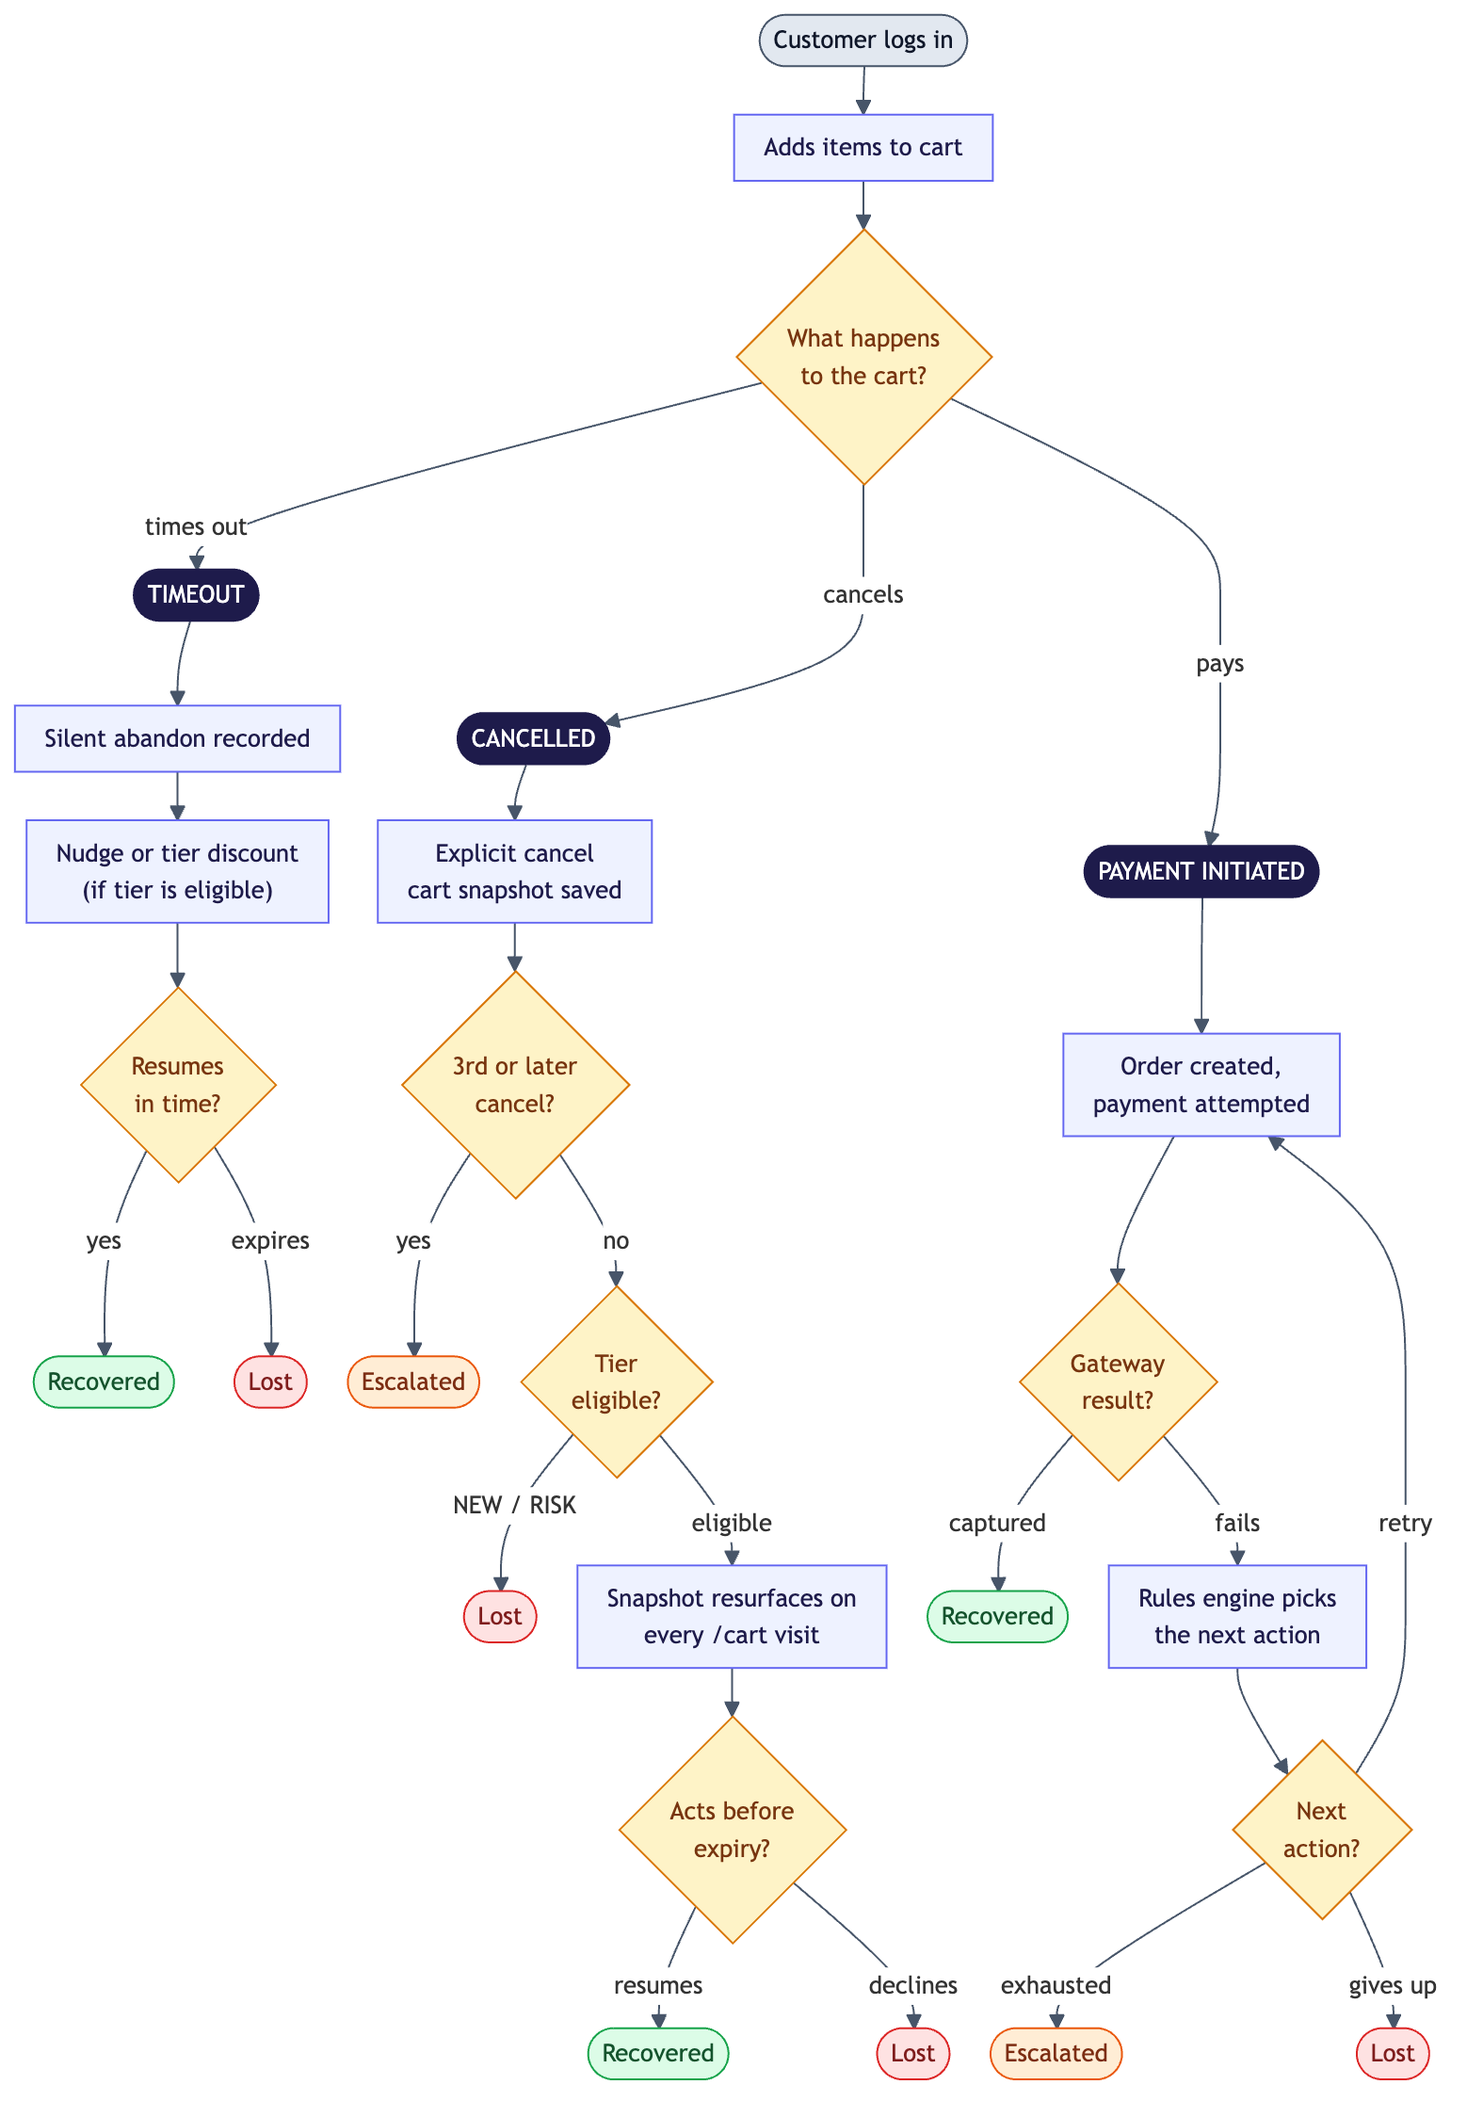
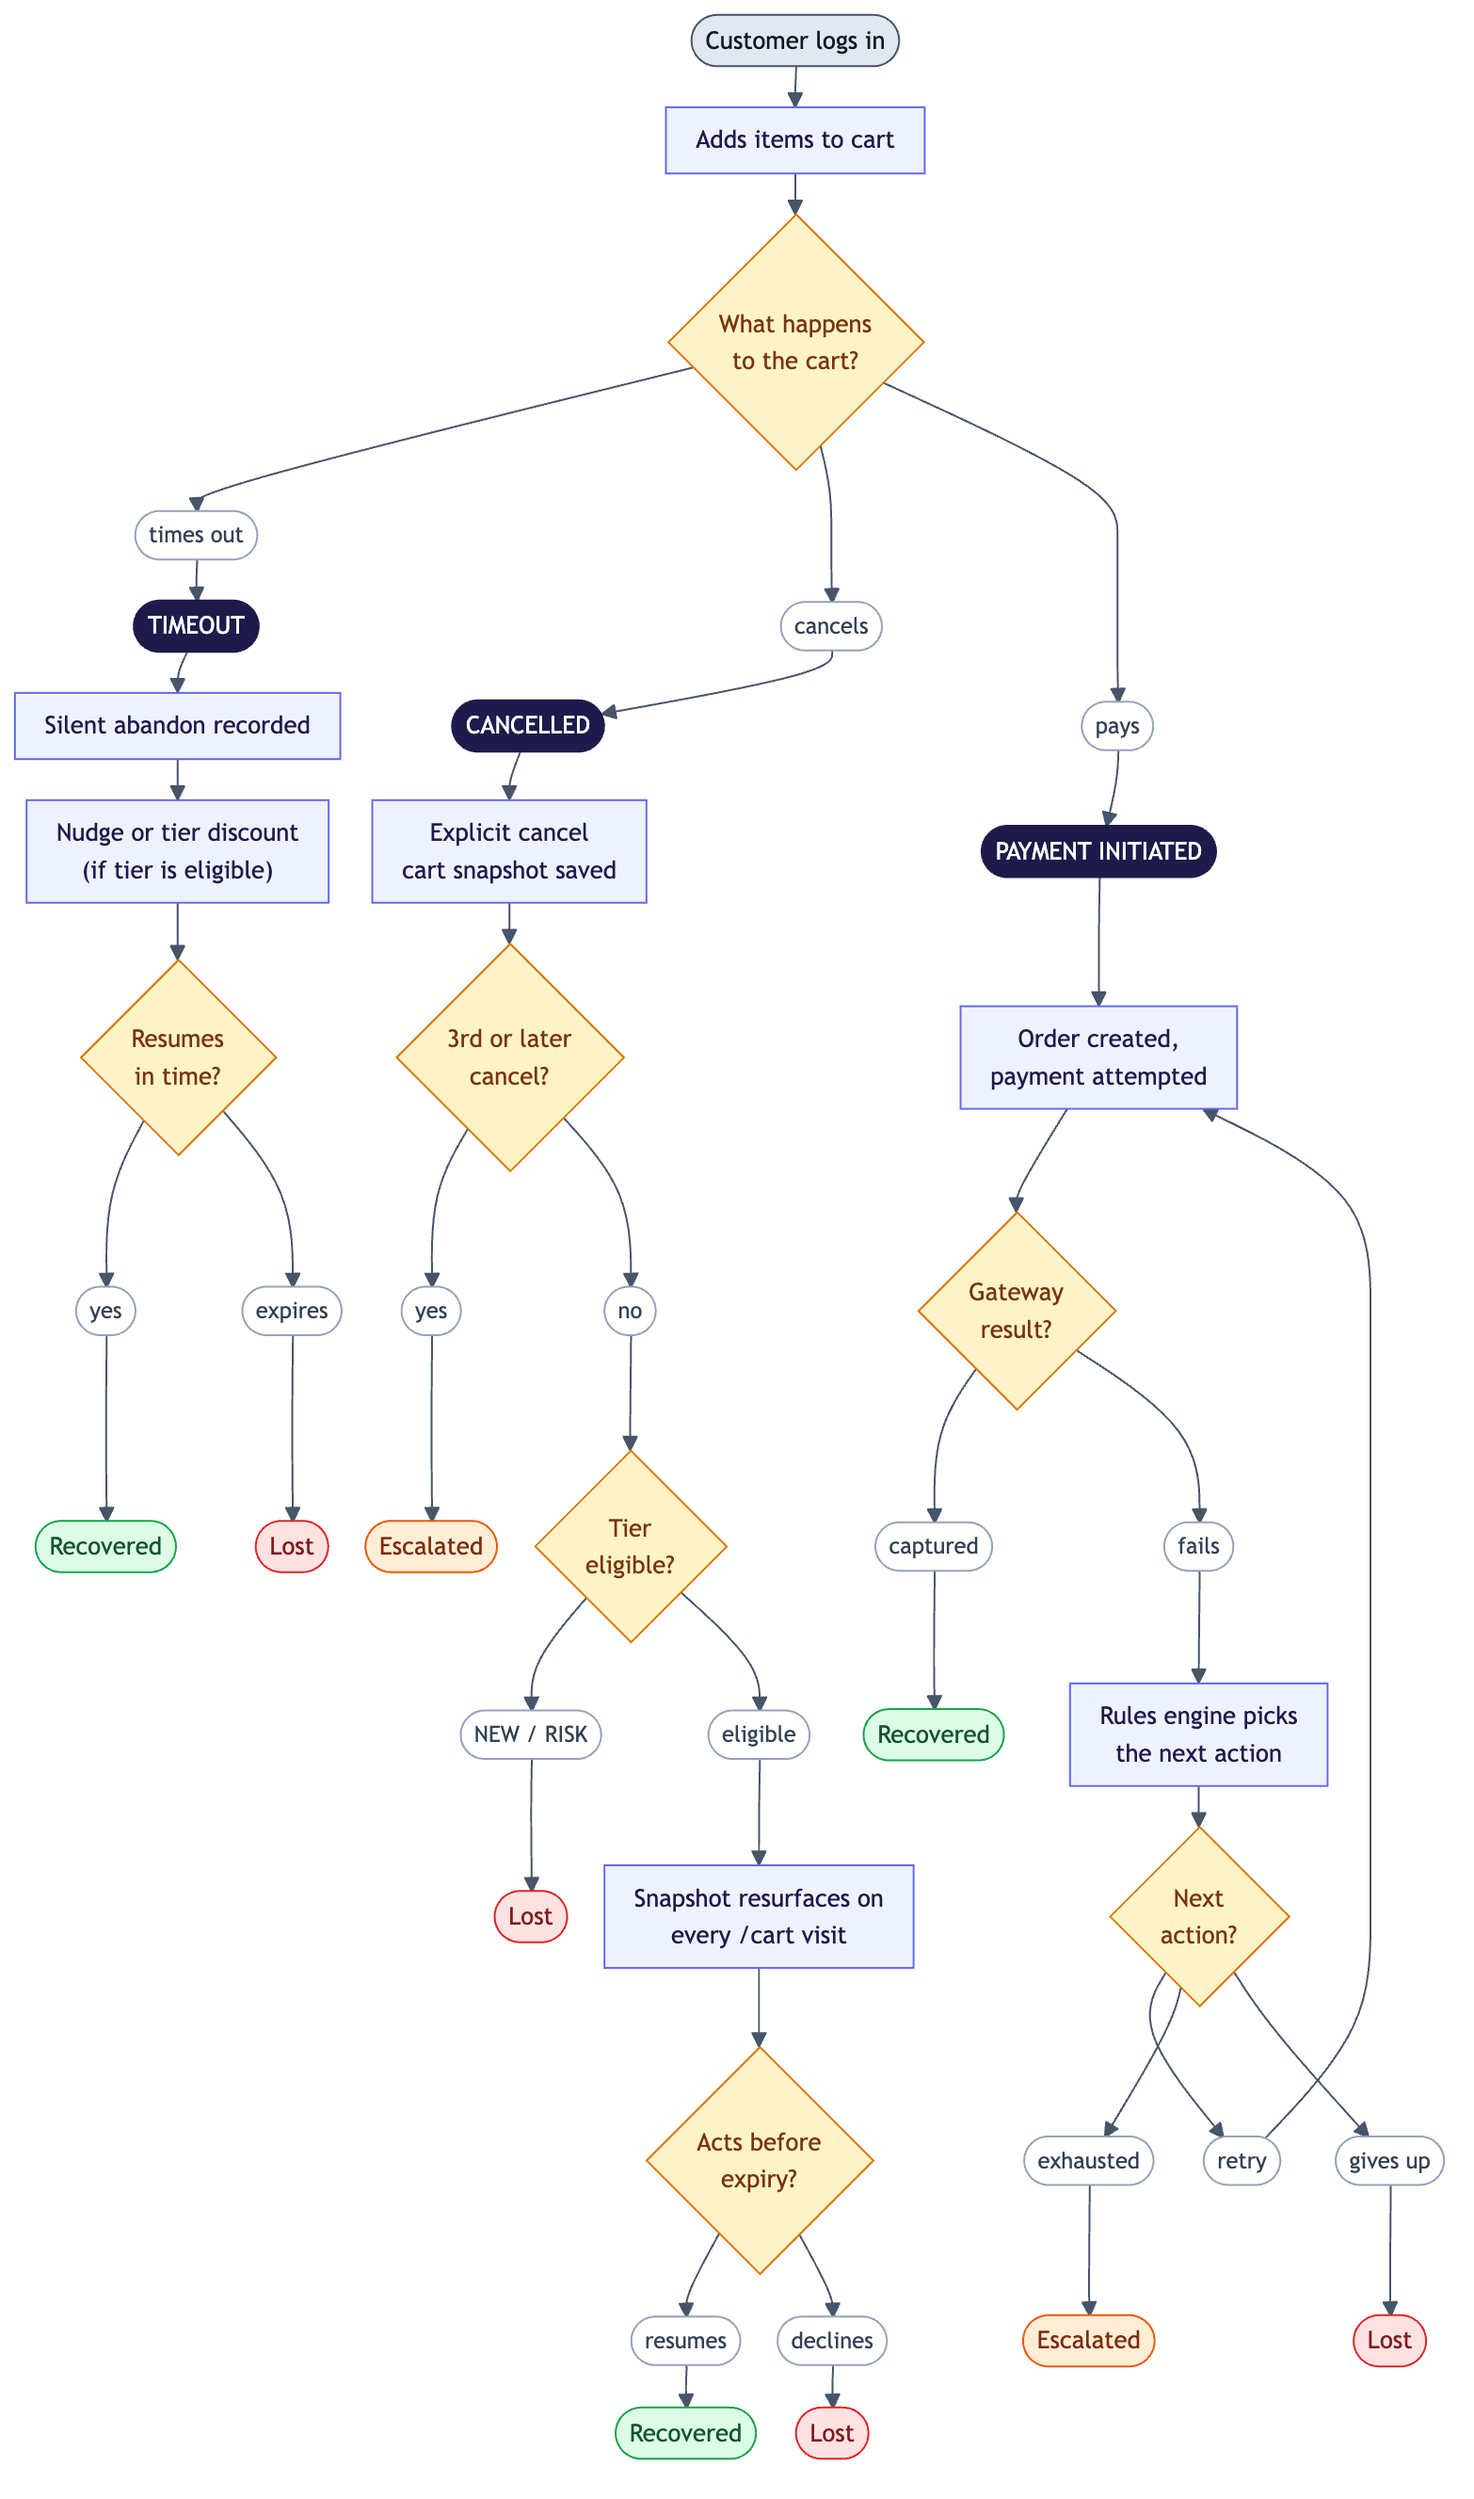
Personalised voice agent, Dragon HD pace and pauses, clean architecture diagrams

diff --git a/README.md b/README.md
@@ -169,7 +169,7 @@ LLM layer and no gate — its action is already bounded by the deterministic tie
 What a shopper goes through after adding items to a cart, and how each of the three ways it can go ends. This is a compact version of the diagram on the
 **Architecture** page of the website (`/architecture`), which has the full detail.
 
-<p align="center"><a href="docs/diagrams/customer-journey.png"><img src="docs/diagrams/customer-journey.png" alt="Customer journey in the store: timeout, cancelled and payment-initiated branches" width="460"></a></p>
+<p align="center"><a href="docs/diagrams/customer-journey.png"><img src="docs/diagrams/customer-journey.png" alt="Customer journey in the store: timeout, cancelled and payment-initiated branches" width="480"></a></p>
 <p align="center"><sub>Click the image to zoom. Editable source: <code>docs/diagrams/customer-journey.mmd</code></sub></p>
 
 🟧 a decision · 🟩 recovered · 🟥 lost · 🟠 handed to a person. Retries loop back until the order is paid, runs out of attempts, or the
@@ -182,7 +182,7 @@ The same story from the system's side (compact; the website page shows every bra
 pipeline (rules, then the AI, then a confidence gate, then the action). A cart event is shorter: no Razorpay order exists yet, so it is
 rules only, with no AI and no gate.
 
-<p align="center"><a href="docs/diagrams/decision-pipeline.png"><img src="docs/diagrams/decision-pipeline.png" alt="Decision pipeline: payment failures and drop-offs share one pipeline, cart events are rules only" width="480"></a></p>
+<p align="center"><a href="docs/diagrams/decision-pipeline.png"><img src="docs/diagrams/decision-pipeline.png" alt="Decision pipeline: payment failures and drop-offs share one pipeline, cart events are rules only" width="420"></a></p>
 <p align="center"><sub>Click the image to zoom. Editable source: <code>docs/diagrams/decision-pipeline.mmd</code></sub></p>
 
 Teal boxes are the cart-event path (rules only); purple is the AI step; orange is a forced hand-off to a person; blue is the audit log.
